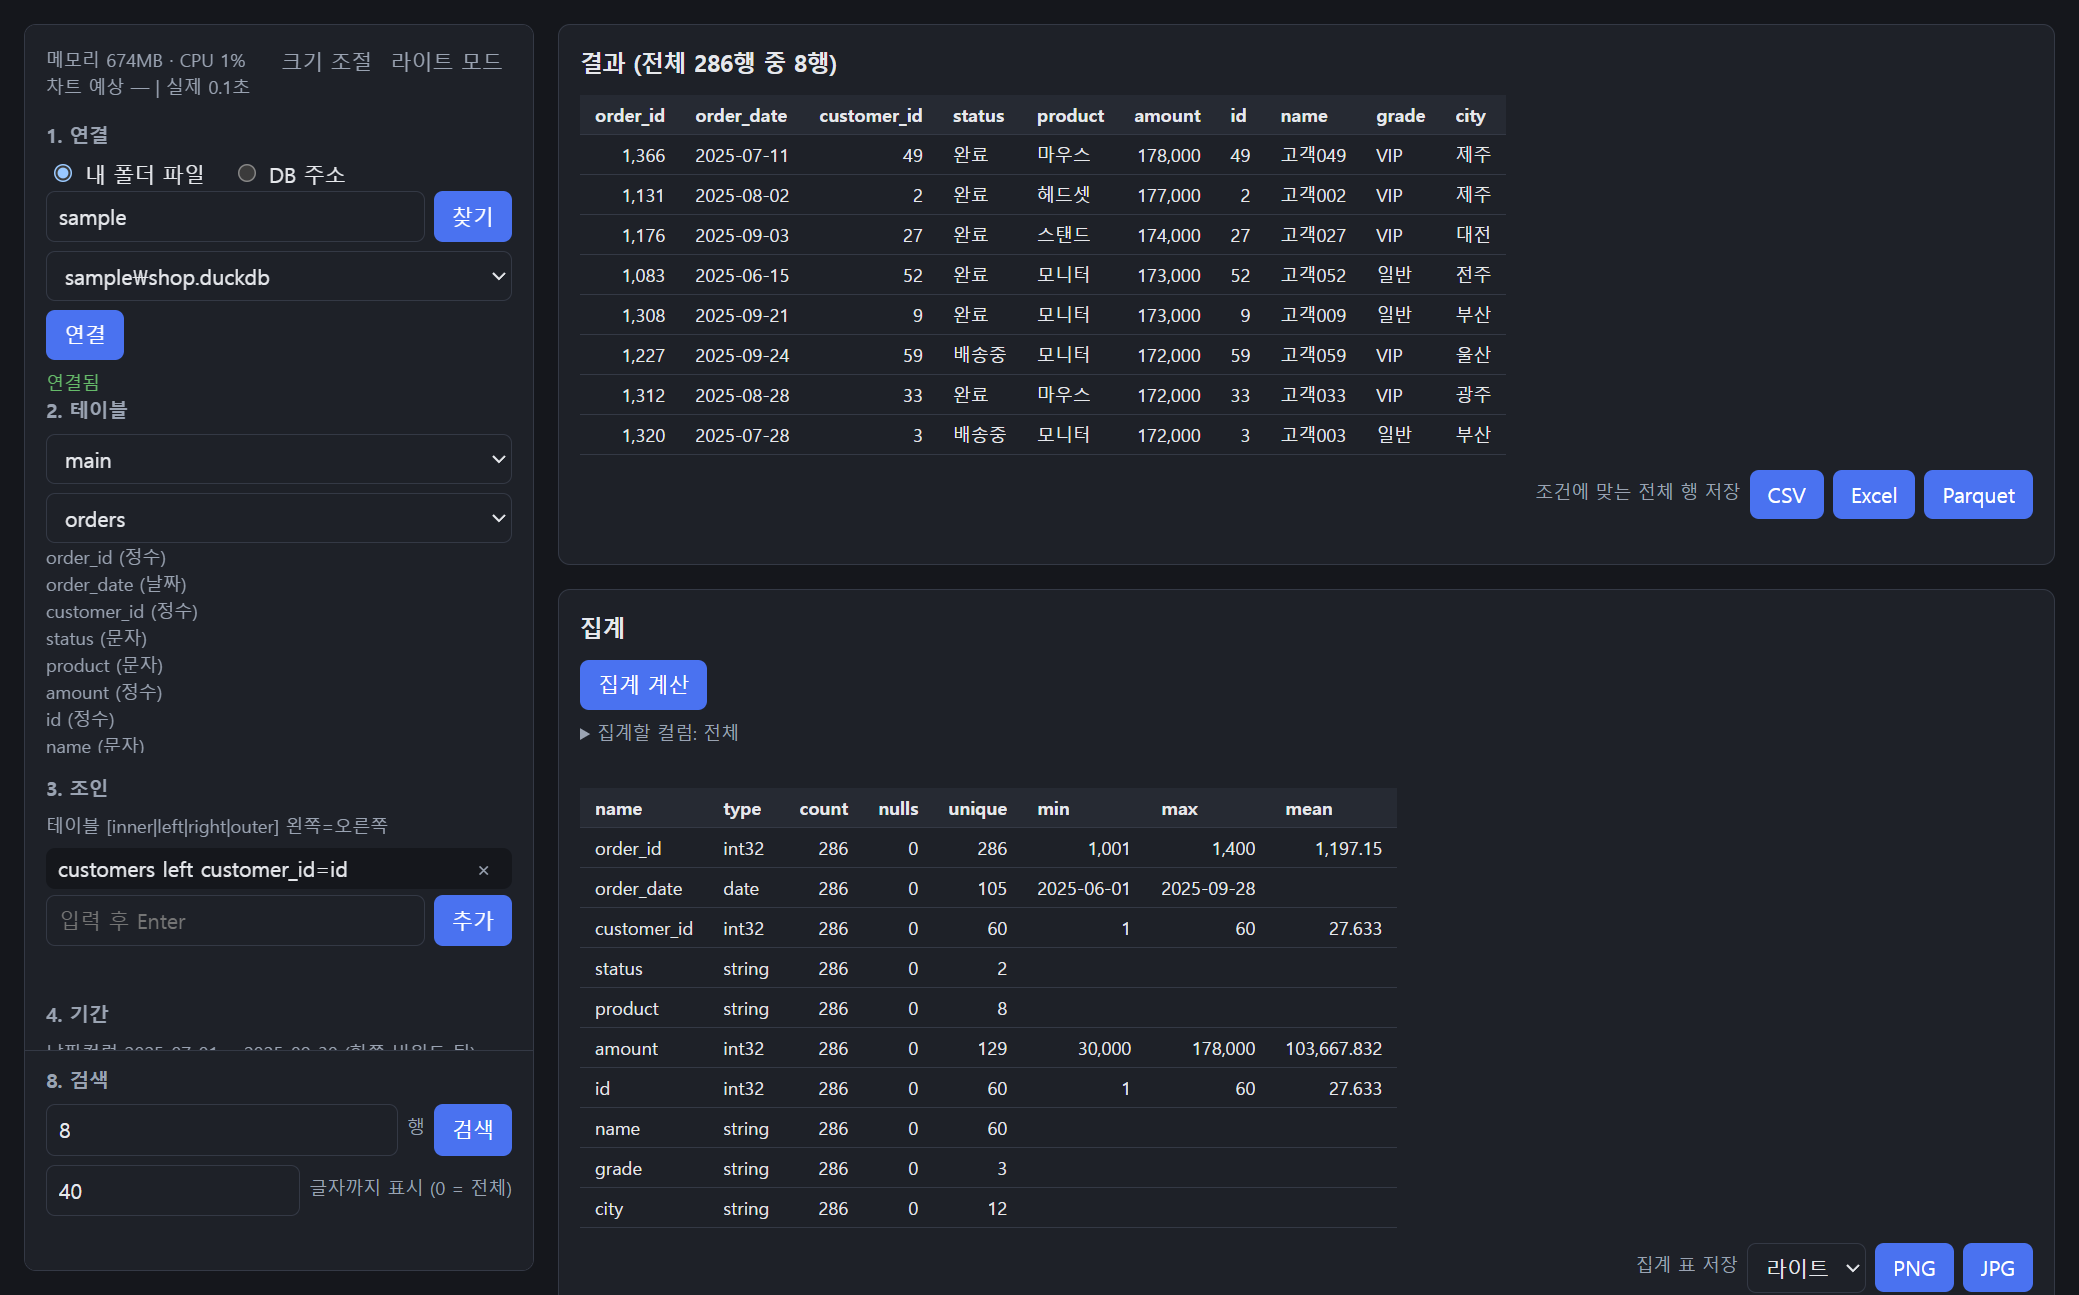
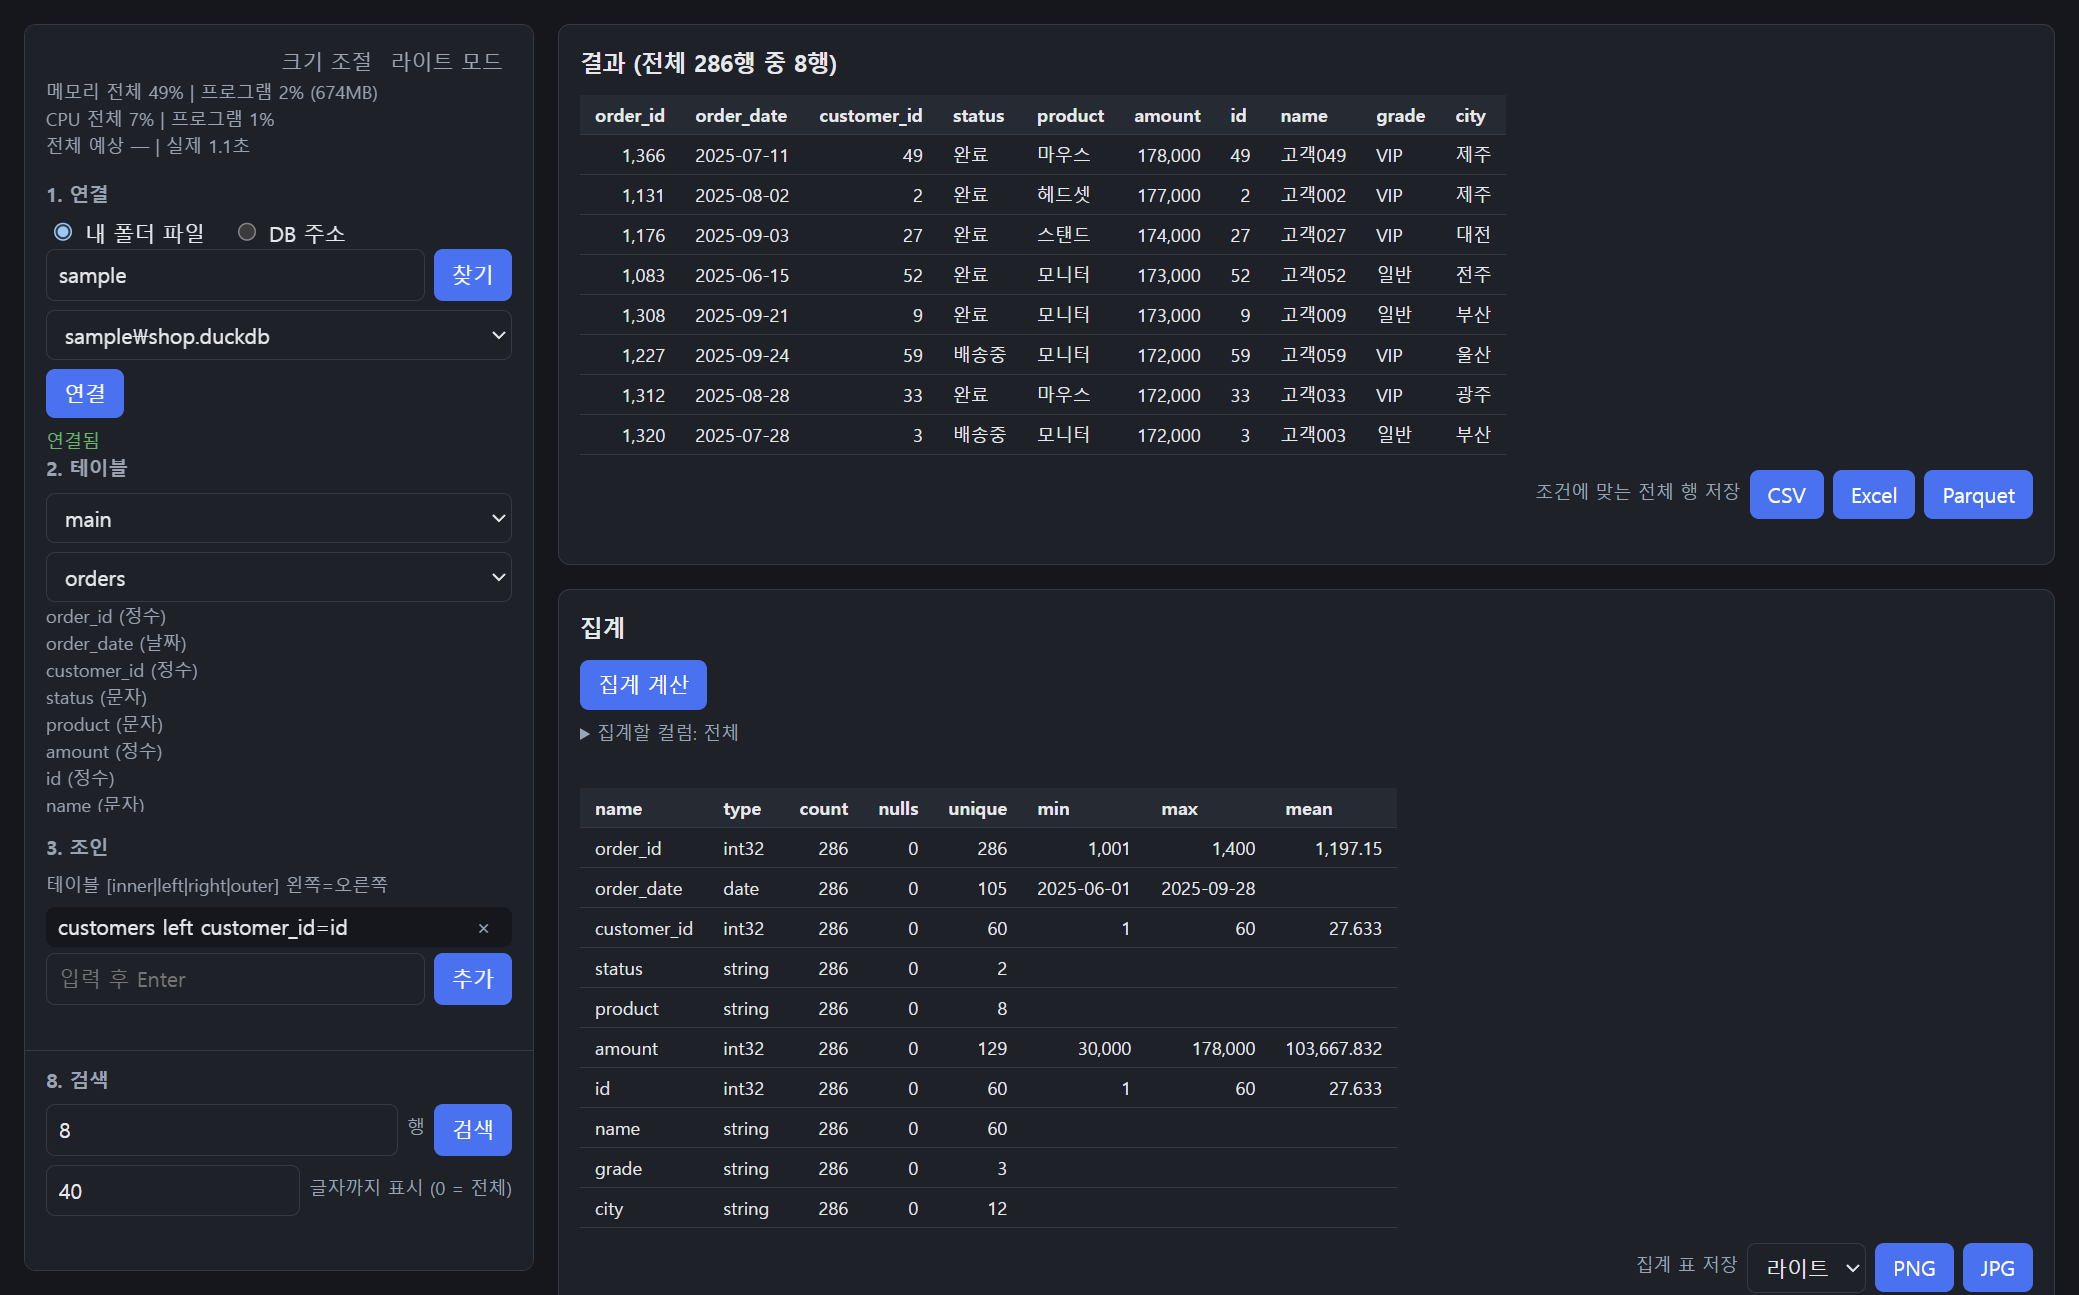
상단 표시: 메모리·CPU를 전체 | 프로그램으로, 시간은 검색 기준 합계로
- 메모리·CPU를 PC 전체와 이 프로그램의 점유율로 나눠 표시
- CPU는 스레드와 상관없이 CPU 시간의 차이로 계산
- 시간은 작업별이 아니라 [검색] 뒤로 돌린 작업의 합계(예상 | 경과·실제)
- README 설명과 화면 그림 갱신

Changed region(s): [[0.0, 0.4015, 0.2463, 0.8031], [0.0, 0.0309, 0.1847, 0.3707], [0.1847, 0.1236, 0.2463, 0.2471]]

diff --git a/static/index.html b/static/index.html
@@ -40,7 +40,9 @@
   input, select, button { font:inherit; padding:6px 8px; border:1px solid var(--line); border-radius:6px; width:100%; }
   input, select { background:var(--card); color:var(--text); }
   #theme, #resize { float:right; }
-  #usage, #timing { margin:0; white-space:nowrap; font-variant-numeric:tabular-nums; }
+  #usage, #timing { margin:0; font-variant-numeric:tabular-nums; }
+  #usage { clear:both; }  /* 버튼 아래 줄에서 시작. 좁으면 "|" 앞에서만 줄을 바꾼다. */
+  #usage span { white-space:nowrap; }
   #timing { margin-bottom:6px; }
   button { background:var(--accent); color:#fff; border:none; cursor:pointer; width:auto; padding:6px 12px; flex:none; white-space:nowrap; }
   button:disabled { opacity:.55; cursor:wait; }
@@ -107,8 +109,8 @@
   <aside class="panel">
     <button id="theme" class="ghost"></button>
     <button id="resize" class="ghost" title="켜면 패널·표·차트의 경계를 끌어 크기를 바꿀 수 있습니다"></button>
-    <div class="hint" id="usage" title="이 프로그램(화면 포함)이 쓰는 메모리와 CPU. DB 주소로 연결하면 연산은 DB 서버가 합니다">&nbsp;</div>
-    <div class="hint" id="timing" title="예상: 테이블 행 수 × 직전 실행의 행당 시간. 조건에 따라 빗나갈 수 있습니다">&nbsp;</div>
+    <div class="hint" id="usage" title="PC 전체의 점유율 | 이 프로그램(화면 포함)의 점유율. DB 주소로 연결하면 연산은 DB 서버가 합니다">&nbsp;<br>&nbsp;</div>
+    <div class="hint" id="timing" title="검색한 뒤로 돌린 검색·집계·차트·저장 시간의 합계. 예상: 테이블 행 수 × 직전 실행의 행당 시간">&nbsp;</div>
     <h2>1. 연결</h2>
     <div class="tabs">
       <label><input type="radio" name="kind" value="folder" checked style="width:auto"> 내 폴더 파일</label>
@@ -286,36 +288,50 @@ async function busy(button, fn) {
   finally { button.disabled = false; button.textContent = label; button.style.minWidth = ""; }
 }
 
-// 상단 표시: 메모리·CPU는 2초마다 읽는다.
+// 상단 표시: 메모리·CPU(PC 전체 | 이 프로그램)는 2초마다 읽는다.
 async function showUsage() {
-  try { const d = await api("/api/usage"); $("usage").textContent = `메모리 ${d.memory.toLocaleString()}MB · CPU ${d.cpu}%`; } catch (e) {}
+  try { const d = await api("/api/usage"); $("usage").innerHTML = `<span>메모리  전체 ${d.pc_memory}%</span> <span>| 프로그램 ${d.memory}% (${d.memory_mb.toLocaleString()}MB)</span><br><span>CPU  전체 ${d.pc_cpu}%</span> <span>| 프로그램 ${d.cpu}%</span>`; } catch (e) {}
 }
 showUsage();
 setInterval(showUsage, 2000);
-// 작업 시간: "예상 | 경과"가 흐르다가 끝나면 "예상 | 실제"로 남는다.
-// 예상 = 기준 테이블 행 수 × 그 작업 종류의 직전 행당 시간(나노초/행, 설정으로 기억). 한 번도 안 해 본 종류는 "—".
-const KINDS = { search: "검색", summary: "집계", chart: "차트", export: "저장" };
-const rates = Object.fromEntries(Object.keys(KINDS).map(k => [k, +saved("time_" + k) || 0]));
+// 전체 시간: [검색]을 누르면 0에서 다시 시작하고, 그 뒤의 집계·차트·저장 시간을 더해 간다. 도는 동안은 "예상 | 경과", 끝나면 "예상 | 실제".
+// 작업 하나의 예상 = 기준 테이블 행 수 × 그 작업 종류의 직전 행당 시간(나노초/행, 설정으로 기억). 한 번도 안 해 본 종류는 예상에 더하지 않는다.
+const KINDS = ["search", "summary", "chart", "export"];
+const rates = Object.fromEntries(KINDS.map(k => [k, +saved("time_" + k) || 0]));
 const secs = ms => (ms / 1000).toFixed(1) + "초";
-let timer, running = 0;
-async function timed(kind, fn) {
-  const start = performance.now(), run = ++running;
-  let guess = "—", rows = 0;
-  const show = word => { if (run === running) $("timing").textContent = `${KINDS[kind]}  예상 ${guess} | ${word} ${secs(performance.now() - start)}`; };
+let total = { guess: 0, done: 0 }, timer;  // 예상 합계와 끝난 작업의 시간 합계(ms)
+const going = new Set();  // 지금 도는 작업들의 시작 시각
+function showTiming() {
+  const now = performance.now(), ms = total.done + [...going].reduce((sum, run) => sum + now - run.at, 0);
+  $("timing").textContent = `전체  예상 ${total.guess ? secs(total.guess) : "—"} | ${going.size ? "경과" : "실제"} ${secs(ms)}`;
+}
+function resetTiming() {
+  total = { guess: 0, done: 0 };
+  going.clear();
   clearInterval(timer);
-  timer = setInterval(() => show("경과"), 100);
+  $("timing").innerHTML = "&nbsp;";
+}
+async function timed(kind, fn) {
+  if (kind === "search") resetTiming();
+  const mine = total, run = { at: performance.now() };  // 도는 사이 새로 검색하면 이 작업의 시간은 새 합계에 넣지 않는다.
+  going.add(run);
+  clearInterval(timer);
+  timer = setInterval(showTiming, 100);
   try {
-    rows = (await api("/api/rowcount", { schema: S.schema, base: S.base })).rows;
-    if (rows && rates[kind]) guess = secs(rates[kind] * rows / 1e6);
+    const rows = (await api("/api/rowcount", { schema: S.schema, base: S.base })).rows;
+    if (rows && rates[kind]) mine.guess += rates[kind] * rows / 1e6;
     const out = await fn();
     if (rows) {
-      rates[kind] = Math.min(Math.max(Math.round((performance.now() - start) * 1e6 / rows), 1), 1e12);
+      rates[kind] = Math.min(Math.max(Math.round((performance.now() - run.at) * 1e6 / rows), 1), 1e12);
       saveSetting({ ["time_" + kind]: rates[kind] });
     }
     return out;
   } finally {
-    if (run === running) clearInterval(timer);
-    show("실제");
+    if (going.delete(run)) {
+      mine.done += performance.now() - run.at;
+      if (!going.size) clearInterval(timer);
+      showTiming();
+    }
   }
 }
 
@@ -377,6 +393,7 @@ function clearScreen() {
   $("rows-title").textContent = "결과";
   renderTables();
   ["err-search", "err-export", "err-summary", "err-chart", "err-builder"].forEach(id => $(id).textContent = "");
+  resetTiming();
 }
 // [모두 해제]: 체크를 모두 푼다. Parquet·CSV로 연결돼 있었으면 그 연결을 끊고 화면을 연결 전으로 되돌린다(파일을 다시 골라 새로 연결).
 // DuckDB 파일이나 DB 주소로 연결돼 있었으면 연결은 그대로 두고 화면에 올라온 것만 비운다.

diff --git a/monitor.py b/monitor.py
@@ -1,24 +1,27 @@
-"""이 프로그램이 쓰는 메모리와 CPU. 화면을 그리는 WebView2 같은 자식 프로세스도 더한다."""
-import time
-
+"""PC 전체와 이 프로그램의 메모리·CPU 점유율. 프로그램 쪽에는 화면을 그리는 WebView2 같은 자식 프로세스도 더한다."""
 import psutil
 
 ME = psutil.Process()
-last = {"at": None, "cpu": 0.0}  # 직전에 잰 시각과 그때까지 쓴 CPU 시간(초)
+last = {}  # 직전에 잰 CPU 시간(초): 모든 코어의 전체(total)·쉰 시간(idle)·이 프로그램이 쓴 시간(mine)
 
 
 def usage():
-    """메모리(MB)와, 직전 호출 뒤로 쓴 CPU(%, PC의 전체 코어가 100). 첫 호출의 CPU는 0."""
-    memory = cpu = 0
+    """PC 전체(pc_*)와 이 프로그램의 메모리(%, MB)·CPU(%). CPU는 직전 호출 뒤로 쓴 양이고 전체 코어가 100이다. 첫 호출의 CPU는 0.
+    요청마다 스레드가 달라 psutil.cpu_percent(스레드별로 직전 값을 기억)는 쓰지 않고 CPU 시간의 차이로 직접 구한다."""
+    memory = mine = 0
     for process in [ME, *ME.children(recursive=True)]:
         try:
             with process.oneshot():
                 memory += process.memory_info().rss
                 times = process.cpu_times()
-                cpu += times.user + times.system
+                mine += times.user + times.system
         except psutil.Error:  # 재는 사이에 끝난 프로세스
             continue
-    now = time.monotonic()
-    percent = 0 if last["at"] is None else max(0, cpu - last["cpu"]) / max(now - last["at"], 0.001) / psutil.cpu_count() * 100
-    last.update(at=now, cpu=cpu)
-    return {"memory": round(memory / 2**20), "cpu": round(min(percent, 100))}
+    times = psutil.cpu_times()
+    now = {"total": times.user + times.system + times.idle, "idle": times.idle, "mine": mine}
+    passed = now["total"] - last.get("total", now["total"])
+    share = lambda used: round(min(max(used / passed * 100, 0), 100)) if passed > 0 else 0
+    cpu = {"pc_cpu": share(passed - (now["idle"] - last.get("idle", 0))), "cpu": share(now["mine"] - last.get("mine", 0))}
+    last.update(now)
+    ram = psutil.virtual_memory()
+    return {"pc_memory": round(ram.percent), "memory": round(memory / ram.total * 100), "memory_mb": round(memory / 2**20), **cpu}

diff --git a/README.md b/README.md
@@ -299,16 +299,19 @@ status, amount
 
 ### 메모리·CPU와 걸린 시간
 
-패널 맨 위에 두 줄이 표시됩니다.
+패널 맨 위에 세 줄이 표시됩니다.
 
 | 줄 | 내용 |
 |---|---|
-| `메모리 312MB · CPU 45%` | 이 프로그램(화면 포함)이 쓰는 메모리와 CPU. 2초마다 바뀝니다. CPU는 PC의 전체 코어를 100%로 본 값입니다 |
-| `검색  예상 1.2초 \| 실제 0.9초` | 검색, 집계, 차트, 저장에 걸린 시간. 실행하는 동안에는 `실제` 자리에 `경과`가 흐릅니다 |
+| `메모리  전체 62% \| 프로그램 6% (919MB)` | PC 전체의 메모리 점유율과, 그중 이 프로그램(화면 포함)이 쓰는 몫 |
+| `CPU  전체 35% \| 프로그램 12%` | PC 전체의 CPU 사용률과, 그중 이 프로그램이 쓰는 몫. 전체 코어를 100%로 본 값입니다 |
+| `전체  예상 3.4초 \| 실제 3.5초` | 검색한 뒤로 돌린 작업에 걸린 시간의 합계. 실행하는 동안에는 `실제` 자리에 `경과`가 흐릅니다 |
 
-예상 시간은 테이블의 행 수에 직전 실행의 행당 시간을 곱한 어림값입니다. 조건이나 조인에 따라 빗나갈 수 있고, 그 작업을 한 번도 하지 않았으면 `—`로 나옵니다. 직전 실행의 시간은 프로그램을 껐다 켜도 기억합니다. 테이블의 행 수는 테이블마다 처음 한 번만 세는데, 원격 DB의 큰 테이블에서는 이때 시간이 걸릴 수 있습니다.
+전체 시간은 [검색]을 누르면 0에서 다시 시작하고, 그 결과로 돌린 집계, 차트, 저장의 시간을 계속 더합니다. 예를 들어 검색 1.0초, 집계 2.4초, 차트 0.1초면 3.5초입니다.
 
-DB 주소로 연결하면 연산은 DB 서버가 하므로 메모리와 CPU는 거의 움직이지 않습니다. GPU는 쓰지 않습니다.
+예상 시간도 작업마다의 예상을 더한 값입니다. 작업 하나의 예상은 테이블의 행 수에 직전 실행의 행당 시간을 곱한 어림값이라 조건이나 조인에 따라 빗나갈 수 있습니다. 한 번도 하지 않은 종류의 작업은 예상에 더해지지 않고, 더한 것이 하나도 없으면 `—`로 나옵니다. 직전 실행의 시간은 프로그램을 껐다 켜도 기억합니다. 테이블의 행 수는 테이블마다 처음 한 번만 세는데, 원격 DB의 큰 테이블에서는 이때 시간이 걸릴 수 있습니다.
+
+메모리와 CPU는 2초마다 바뀝니다. DB 주소로 연결하면 연산은 DB 서버가 하므로 메모리와 CPU는 거의 움직이지 않습니다. GPU는 쓰지 않습니다.
 
 ### 화면 모드
 
